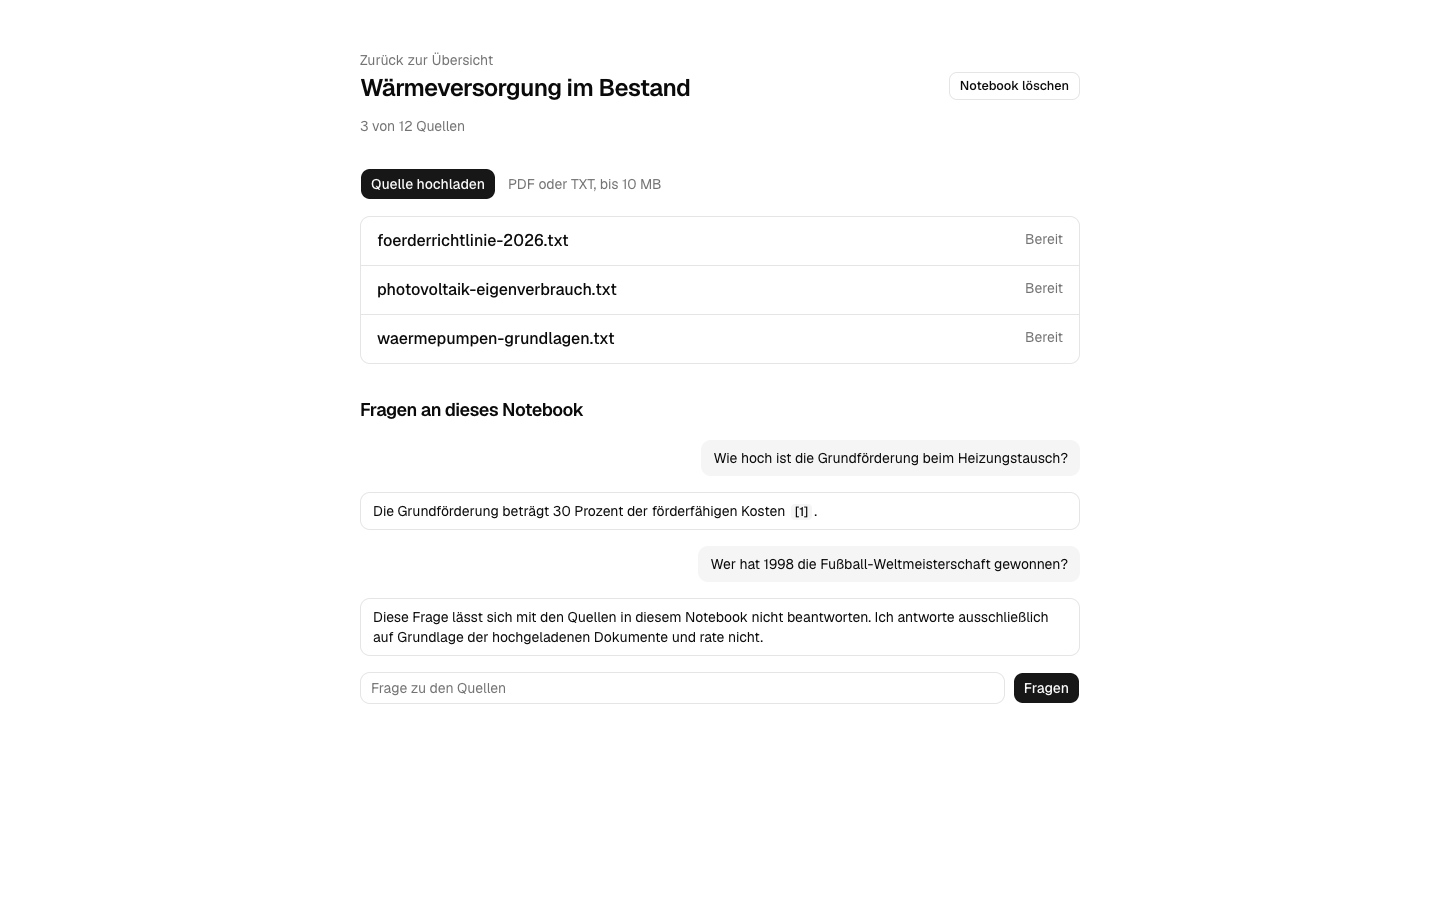
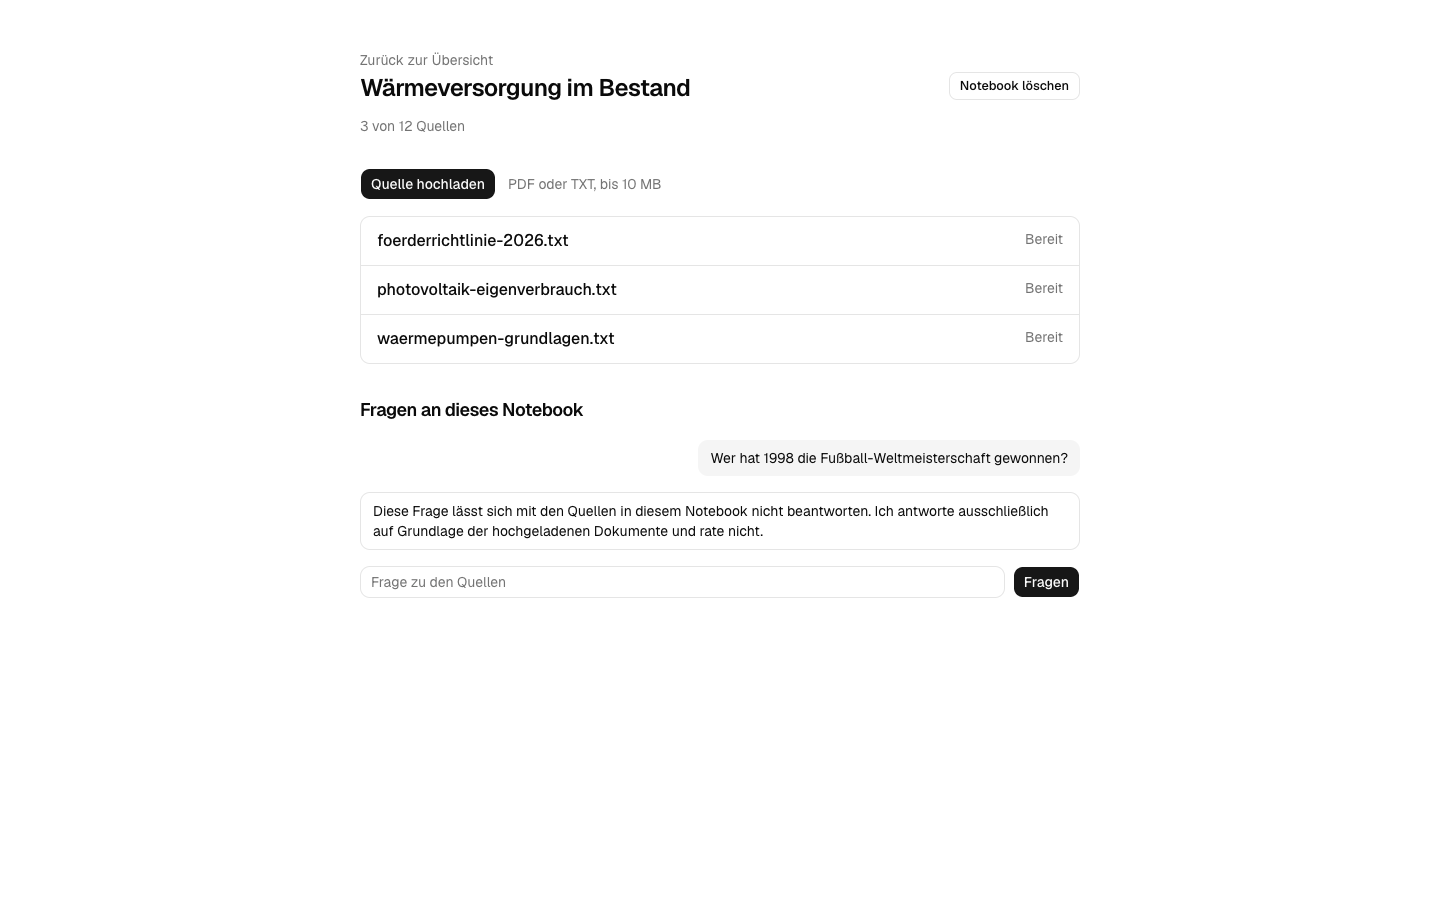
docs: record what the browser walkthrough caught
Two runs, one red and one green against the same code, with the database
state as the only difference. The finding belongs in the readme because
it is the clearest evidence in this project that a green suite and a
working interface are different claims: every one of the 49 tests creates
its own data, so an order-dependent defect cannot appear in any of them.

Claude-Session: https://claude.ai/code/session_01F2RR3uS7BRsQPfBcxYM4nw

diff --git a/README.md b/README.md
@@ -359,21 +359,38 @@ npm run walkthrough    # sichtbarer Browserdurchlauf gegen Produktion
 
 `npm run walkthrough` fährt zehn Schritte gegen die Live-Umgebung, sichtbar und
 verlangsamt, mit Screenshot je Schritt. Ich habe ihn eingebaut, weil ich die
-Oberfläche bis dahin nie angesehen hatte, und der erste Lauf hat das sofort
-bestraft: alle 49 Tests waren grün, während der gesamte Fließtext der Anwendung
-in Times statt in der eingebundenen Schrift renderte. Kein Typecheck, kein
-Linter und kein Integrationstest prüft, wie etwas aussieht. Dazu kamen eine
-englische Next.js-Standardseite als 404 an genau der Stelle, an der die
-404-statt-403-Entscheidung sichtbar wird, und ein Löschknopf ohne Rückfrage.
-Alle drei sind behoben, die Schriftkorrektur gegen die Live-Seite nachgemessen
-statt nachgesehen.
+Oberfläche bis dahin nie angesehen hatte, und er hat sich in zwei Läufen selbst
+gerechtfertigt.
 
-Die CI führt Typecheck, Lint und Tests gegen einen
-`pgvector/pgvector`-Service-Container aus und prüft nach jedem Push, dass der
-gepushte Commit live ist und seine Datenbank erreicht. Der Build selbst
-validiert vorher die Umgebungsvariablen nach Form, ruft die konfigurierten
-Modelle und den Blob-Store einmal wirklich auf und durchsucht danach das
-erzeugte Client-Bundle nach Zugangsdaten.
+**Der erste Lauf.** Alle 49 Tests waren grün, während der gesamte Fließtext der
+Anwendung in Times statt in der eingebundenen Schrift renderte. Die
+Schriftvariable wurde per Klasse auf `<body>` gesetzt, die CSS-Regel las sie auf
+`<html>`, und der Theme-Token verwies zusätzlich auf sich selbst. Überschriften
+sahen richtig aus, weil sie die Schriftfamilie direkt benennen. Kein Typecheck,
+kein Linter und kein Integrationstest prüft, wie eine Seite aussieht. Derselbe
+Lauf zeigte an genau der Stelle, an der die 404-statt-403-Entscheidung sichtbar
+wird, die englische Next.js-Standardseite, und einen Löschknopf ohne Rückfrage.
+
+**Der zweite Lauf.** Er lief gegen dieselbe Anwendung und war grün, wo der erste
+rot war: das Zitat in Schritt 6 ließ sich anklicken. Der Unterschied lag nicht im
+Code, sondern im Zustand der Datenbank. Der Stream lieferte damals nur eine
+Chunk-Id, und der Client löste die Quellen-Id über eine Tabelle auf, die aus den
+Zitaten bereits gespeicherter Nachrichten gebaut wurde. In einem frisch
+geseedeten Notebook ist diese Tabelle leer, also blieb das erste Zitat einer
+Sitzung reiner Text. Der erste Lauf traf genau diesen Zustand, der zweite lief
+auf dem Verlauf, den der erste hinterlassen hatte. Nach einem Reload
+funktionierte es, was den Fehler schlimmer macht statt harmloser: in einer
+aufgezeichneten Vorführung hätte er geklappt und bei der Person, die die
+Anwendung zum ersten Mal öffnet, nicht. Behoben, indem die Quellen-Id mit dem
+Stream mitreist und der Client gar keinen Zustand mehr dafür hält.
+
+Ein Fehler, der von der Reihenfolge der Läufe abhängt, taucht in keinem der 49
+Tests auf, weil jeder von ihnen seine eigenen Daten anlegt. Zusammen mit der
+Times-Schrift ist das mein bestes Argument dafür, dass grüne Tests und eine
+funktionierende Oberfläche zwei verschiedene Dinge sind. Der Durchlauf bricht
+deshalb auch nicht beim ersten Fehler ab, sondern sammelt alle und meldet am
+Ende; die abgebrochene Fassung hatte vier Schritte verschluckt. Er räumt die
+Quelle und den Chatverlauf, die er selbst erzeugt, hinterher wieder ab.
 
 ## Dokumente
 
